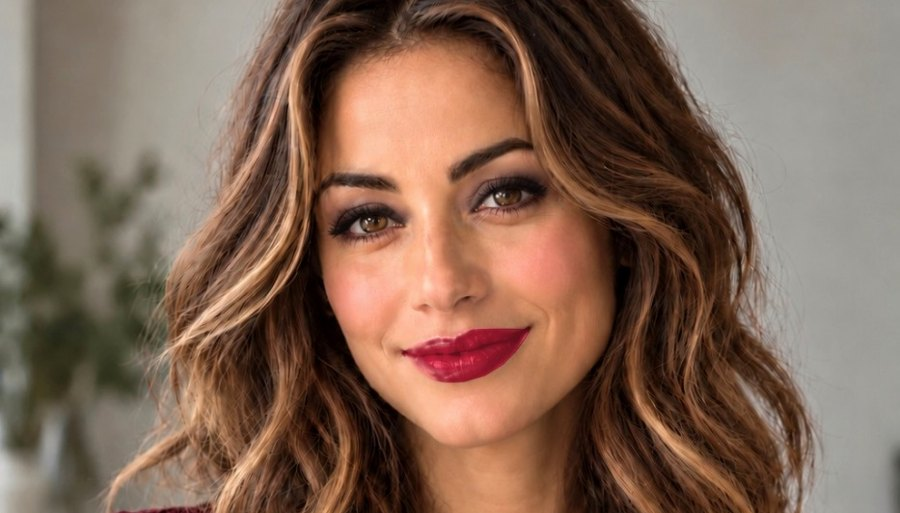
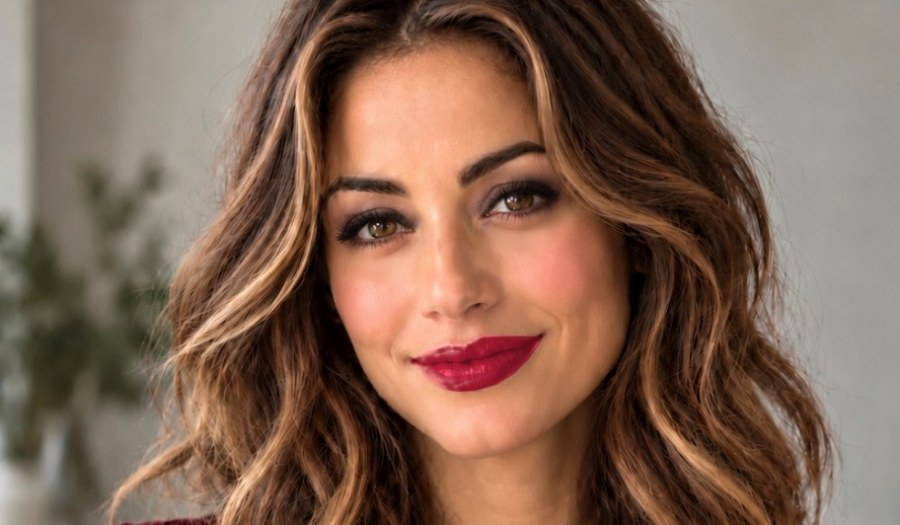
Paywall showcase: split centred on the face, smoother under-eyes in the After; shorter feature line
Claude-Session: https://claude.ai/code/session_01PnfinMbQi6YwTeFiDcXdq3

diff --git a/app/app-plan.js b/app/app-plan.js
@@ -134,7 +134,7 @@
         '<li><span class="ic">' + ICON.ai + '</span><span><b>' + aiPaid + ' AI Luxe Looks</b> every month</span></li>' +
         '<li><span class="ic">' + ICON.looks + '</span><span>Every on-device look, <b>unlimited</b></span></li>' +
         '<li><span class="ic">' + ICON.reel + '</span><span>Before &amp; after photos and reels</span></li>' +
-        '<li><span class="ic">' + ICON.you + '</span><span>Full-resolution saves, made on your own photo</span></li>' +
+        '<li><span class="ic">' + ICON.you + '</span><span>Full-resolution saves</span></li>' +
       '</ul>' +
       '<div class="fcpPlans" role="radiogroup" aria-label="Choose your plan">' +
         '<button type="button" class="fcpPlan year' + (yr ? ' on' : '') + '" data-plan="yearly" role="radio" aria-checked="' + yr + '">' +
